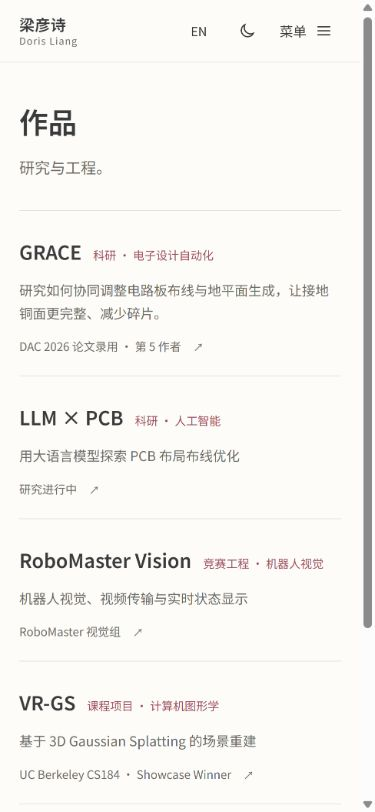
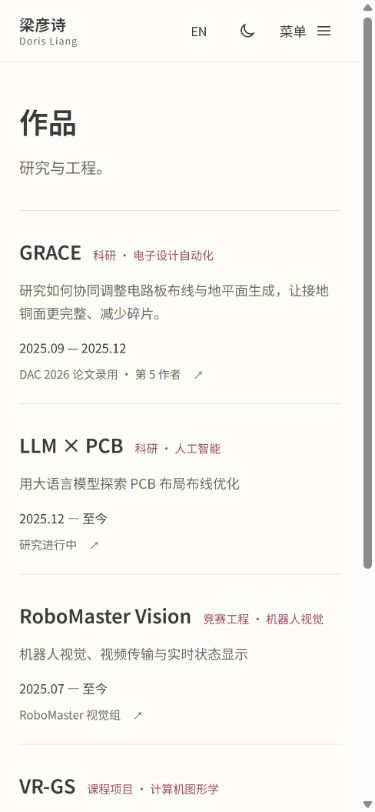
ui(projects)：在列表与详情区分项目时间和论文年份

diff --git a/src/components.js b/src/components.js
@@ -40,7 +40,15 @@ export function documentPage({ key, lang, title, description, body }) {
 <html lang="${lang === "en" ? "en" : "zh-CN"}"><head><meta charset="UTF-8"><meta name="viewport" content="width=device-width, initial-scale=1"><title>${escape(title)} · ${lang === "en" ? "Doris Liang" : "梁彦诗"}</title><meta name="description" content="${escape(description)}"><meta name="theme-color" content="#fdfcf8"><link rel="canonical" href="${canonical}"><link rel="alternate" hreflang="zh-CN" href="${origin}${pathFor(key)}"><link rel="alternate" hreflang="en" href="${origin}${pathFor(key, "en")}"><link rel="alternate" hreflang="x-default" href="${origin}${pathFor(key)}"><meta property="og:title" content="${escape(title)} · Doris Liang"><meta property="og:description" content="${escape(description)}"><meta property="og:url" content="${canonical}"><meta property="og:type" content="${key.startsWith("notes/") ? "article" : "website"}"><meta property="og:locale" content="${lang === "en" ? "en_US" : "zh_CN"}"><link rel="icon" href="/favicon.svg" type="image/svg+xml"><link rel="alternate" type="application/rss+xml" title="Doris Liang · Writing" href="/rss.xml"><script src="/theme-init.js"></script><link rel="preload" href="/assets/fonts/livenest-sans-sc.woff2" as="font" type="font/woff2" crossorigin><link rel="stylesheet" href="/styles.css"></head><body><a class="skip-link" href="#main">${ui[lang].skip}</a>${header(key, lang)}<main id="main" tabindex="-1">${body}</main>${footer(lang)}<script type="module" src="/app.js"></script></body></html>`;
 }
 
-/** Explain project type, problem and recognition at a glance, keeping full technical evidence in details. */
+/** Show supplied project dates separately from publication years; summer does not imply exact months. */
+export function projectPeriod(project, lang) {
+  const { start, end, ongoing, season } = project.period;
+  const beginning = `<time datetime="${start}">${date(start)}</time>`;
+  const ending = end ? ` — <time datetime="${end}">${date(end)}</time>` : ongoing ? ` — ${lang === "en" ? "present" : "至今"}` : "";
+  return `${beginning}${season === "summer" ? (lang === "en" ? " summer" : " 夏") : ending}`;
+}
+
+/** Explain project type, problem, dates and recognition without confusing work and publication dates. */
 export function projectRow(project, lang, heading = "h2") {
   const statuses = {
     grace: lang === "en" ? "Paper accepted at DAC 2026 · Fifth author" : "DAC 2026 论文录用 · 第 5 作者",
@@ -48,7 +56,7 @@ export function projectRow(project, lang, heading = "h2") {
     robomaster: lang === "en" ? "RoboMaster vision team" : "RoboMaster 视觉组",
     vrgs: "UC Berkeley CS184 · Showcase Winner"
   };
-  return `<article class="project-row"><div class="project-row-heading"><${heading}><a href="${pathFor(`projects/${project.id}`, lang)}">${escape(project.title)}</a></${heading}><span class="project-context">${escape(projectContext[project.id][lang])}</span></div><p class="project-subtitle">${escape(projectSummaries[project.id][lang])}</p><p class="project-status"><span>${escape(statuses[project.id])}</span><span class="project-arrow" aria-hidden="true">↗</span></p></article>`;
+  return `<article class="project-row"><div class="project-row-heading"><${heading}><a href="${pathFor(`projects/${project.id}`, lang)}">${escape(project.title)}</a></${heading}><span class="project-context">${escape(projectContext[project.id][lang])}</span></div><p class="project-subtitle">${escape(projectSummaries[project.id][lang])}</p><div class="project-meta"><p class="project-period">${projectPeriod(project, lang)}</p><p class="project-status"><span>${escape(statuses[project.id])}</span><span class="project-arrow" aria-hidden="true">↗</span></p></div></article>`;
 }
 
 /** Connect the award and the story from every article entry point using one award record. */

diff --git a/src/pages.js b/src/pages.js
@@ -4,7 +4,7 @@ import { honors } from "../content/honors.js";
 import { introduction, ui, localizedProjects, localizedJourney, localizedEducation, localizedNote } from "../content/locales.js";
 import { hero } from "./hero.js";
 import { pathFor } from "./routes.js";
-import { escape, date, sectionHeading, projectRow, noteEntry, awardLine } from "./components.js";
+import { escape, date, sectionHeading, projectRow, projectPeriod, noteEntry, awardLine } from "./components.js";
 
 export const pageKeys = ["", "projects", ...projects.map((item) => `projects/${item.id}`), "notes", "notes/unselected-road", "journey", "honors", "about"];
 
@@ -24,7 +24,7 @@ function projectDetail(project, lang) {
   const t = ui[lang];
   const reportLabel = project.id === "grace" ? (lang === "en" ? "DAC 2026 presentation" : "DAC 2026 论文页面") : project.id === "robomaster" ? (lang === "en" ? "GitHub profile" : "GitHub 个人主页") : (lang === "en" ? "Project report" : "项目报告");
   const links = project.link ? `<section class="detail-section"><h2>${t.sources}</h2><div class="text-links"><a href="${escape(project.link)}">${reportLabel} ↗</a>${project.secondaryLink ? `<a href="${escape(project.secondaryLink)}">CS184 Showcase ↗</a>` : ""}</div></section>` : "";
-  return `<div class="reading-shell"><a class="back-link" href="${pathFor("projects", lang)}">← ${t.back} ${t.projects}</a><header class="detail-title"><p class="meta">${escape(project.status)}</p><h1>${escape(project.title)}</h1><p>${escape(project.subtitle)}</p></header>${[[t.background, project.statement], [t.contribution, project.detail], [t.outcome, project.result]].map(([title, text]) => `<section class="detail-section"><h2>${title}</h2><p>${escape(text)}</p></section>`).join("")}<section class="detail-section"><h2>${t.tools}</h2><p class="technology-line">${project.stack.map(escape).join(" · ")}</p></section>${links}</div>`;
+  return `<div class="reading-shell"><a class="back-link" href="${pathFor("projects", lang)}">← ${t.back} ${t.projects}</a><header class="detail-title"><p class="meta">${escape(project.status)}</p><h1>${escape(project.title)}</h1><p>${escape(project.subtitle)}</p><p class="project-period">${lang === "en" ? "Project period" : "项目时间"} · ${projectPeriod(project, lang)}</p></header>${[[t.background, project.statement], [t.contribution, project.detail], [t.outcome, project.result]].map(([title, text]) => `<section class="detail-section"><h2>${title}</h2><p>${escape(text)}</p></section>`).join("")}<section class="detail-section"><h2>${t.tools}</h2><p class="technology-line">${project.stack.map(escape).join(" · ")}</p></section>${links}</div>`;
 }
 
 /** Render original Chinese paragraphs unchanged, with localized navigation and recognition metadata. */

diff --git a/styles.css b/styles.css
@@ -138,13 +138,17 @@ h1, h2, h3 { color: var(--ink); line-height: 1.4; overflow-wrap: anywhere; }
 .project-context { color: var(--accent); font-size: 13px; }
 .project-row h2, .project-row h3 { font-size: 22px; font-weight: 600; margin: 0; letter-spacing: 0; }
 .project-row h2 a, .project-row h3 a { display: inline-flex; align-items: center; text-decoration: none; min-height: 44px; }
-.project-status { grid-column: 2; grid-row: 1 / 3; align-self: center; display: flex; align-items: center; justify-content: flex-end; gap: 12px; color: var(--ink-soft); font-size: 13px; line-height: 1.8; margin: 0; text-align: right; }
+.project-meta { grid-column: 2; grid-row: 1 / 3; align-self: center; text-align: right; }
+.project-period { color: var(--ink); font-size: 13px; font-variant-numeric: tabular-nums; margin: 0 0 6px; }
+.detail-title .project-period { font-size: 14px; margin-top: 20px; }
+.project-status { display: flex; align-items: center; justify-content: flex-end; gap: 12px; color: var(--ink-soft); font-size: 13px; line-height: 1.8; margin: 0; }
 .project-arrow { flex-shrink: 0; transition: transform .2s; }
 .project-row:focus-within .project-arrow, .project-row:hover .project-arrow { transform: translate(2px,-2px); }
 .project-subtitle { grid-column: 1; color: var(--ink-soft); font-size: 15px; line-height: 1.7; margin: 6px 0 0; max-width: 650px; }
 @media (max-width: 800px) {
  .project-row { grid-template-columns: minmax(0, 1fr); }
- .project-status { grid-column: 1; grid-row: auto; justify-content: flex-start; text-align: left; margin-top: 12px; }
+ .project-meta { grid-column: 1; grid-row: auto; text-align: left; margin-top: 14px; }
+ .project-status { justify-content: flex-start; }
 }
 .meta { color: var(--ink-soft); font-size: 12px; line-height: 1.65; letter-spacing: .02em; margin: 0 0 8px; }
 .note-entry { display: grid; grid-template-columns: 100px minmax(0, 1fr); gap: 24px; border-top: 1px solid var(--line); border-bottom: 1px solid var(--line); padding: 28px 0; }

diff --git a/content/site-data.js b/content/site-data.js
@@ -16,6 +16,7 @@ export const site = {
 export const projects = [
   {
     id: "grace",
+    period: { start: "2025-09", end: "2025-12" },
     index: "01",
     eyebrow: "EDA Research · DAC 2026",
     title: "GRACE",
@@ -28,6 +29,7 @@ export const projects = [
   },
   {
     id: "llm-pcb",
+    period: { start: "2025-12", ongoing: true },
     index: "02",
     eyebrow: "LLM Research · Ongoing",
     title: "LLM × PCB",
@@ -39,6 +41,7 @@ export const projects = [
   },
   {
     id: "robomaster",
+    period: { start: "2025-07", ongoing: true },
     index: "03",
     eyebrow: "Robotics · ROS2",
     title: "RoboMaster Vision",
@@ -51,6 +54,7 @@ export const projects = [
   },
   {
     id: "vrgs",
+    period: { start: "2025", season: "summer" },
     index: "04",
     eyebrow: "UC Berkeley CS184 · Showcase Winner",
     title: "VR-GS",

diff --git a/docs/个人站改版.md b/docs/个人站改版.md
@@ -3,7 +3,7 @@
 
 ## 页面与视觉
 
-首页保持既有头像、居中大开场与动画布局，之后依次为自我介绍、GRACE 与 LLM × PCB 两项精选研究、获奖文章入口。项目总览每项展示名称与类型、一句问题说明，右侧展示成果状态，整行均可点击；手机在说明下展示状态，避免挤压长文本。删除索引编号、头部重复英文标签和列表成果段落。详情解释背景、贡献、成果和链接；不把所有信息堆进首页。
+首页保持既有头像、居中大开场与动画布局，之后依次为自我介绍、GRACE 与 LLM × PCB 两项精选研究、获奖文章入口。项目总览每项展示名称与类型、一句问题说明，右侧分别展示项目时间与成果状态，整行均可点击；手机在说明下展示状态，避免挤压长文本。删除索引编号、头部重复英文标签和列表成果段落。详情解释背景、贡献、成果和链接；不把所有信息堆进首页。
 
 主导航：首页、作品、手记、轨迹、关于。荣誉是独立页面，从轨迹、关于、页脚与获奖文章可达。手机以非模态菜单提供全部主导航，Escape 关闭并把焦点归还菜单按钮。
 
@@ -32,3 +32,5 @@ GRACE 标明 DAC 2026 录用和第 5 作者；LLM × PCB 标明进行中。RoboM
 ## 字体来源
 
[1 lines of base64/hex data omitted]
+
+项目日期来自现有简历：GRACE 为 2025.09—2025.12，LLM × PCB 沿用此前确认的 2025.12—至今，RoboMaster 为 2025.07—至今。VR-GS 只标已知的 2025 夏，不将课程学期推断为项目精确起止月份。项目列表、首页精选与详情共用日期数据，论文年份单独展示。两份简历对 LLM 项目结束时间存在差异，已向用户询问；未确认前沿用本轮已批准的进行中状态。

diff --git a/README.md b/README.md
@@ -50,6 +50,6 @@ GitHub Pages 工作流发布 `dist/`，对 `main` 的推送会触发部署。分
 
 ## 设计与验收
 
-内容区最大宽度 1040px，阅读区 700px，使用暖白、柔和玫瑰色和细分隔线。网页界面与大开场统一复用 LivePilot-v2 网页的 LiveNest Sans SC 本地字体，文学原文保留衬线字体。项目列表展示名称、科研／竞赛工程／课程项目类型、一句问题说明和成果状态；GRACE 直接标明论文录用与第 5 作者，完整贡献与指标进入详情页。时间轴桌面展示横向年度导航，手机纵向展开。详细约束和验证记录见 [设计说明](docs/个人站改版.md) 与 [验收记录](docs/改版验收.md)。
+内容区最大宽度 1040px，阅读区 700px，使用暖白、柔和玫瑰色和细分隔线。网页界面与大开场统一复用 LivePilot-v2 网页的 LiveNest Sans SC 本地字体，文学原文保留衬线字体。项目列表展示名称、科研／竞赛工程／课程项目类型、一句问题说明、项目时间和成果状态；GRACE 直接标明论文录用与第 5 作者，完整贡献与指标进入详情页。时间轴桌面展示横向年度导航，手机纵向展开。详细约束和验证记录见 [设计说明](docs/个人站改版.md) 与 [验收记录](docs/改版验收.md)。
 
 既有 `design-qa.md`、`hero-source-audit.md` 及 font/hero 比较脚本是上一版历史记录，不代表新版结构。参考设计归属见 `THIRD_PARTY_NOTICES.md`；没有复制 Innei 的个人内容或图片。

diff --git a/docs/改版验收.md b/docs/改版验收.md
@@ -44,3 +44,7 @@
 页面内容已在构建产物中完整输出，无脚本可读性以静态 HTML 检查确认；旧链接自动迁移、主题与菜单增强仍需要 JavaScript。界面字体已改为同源托管的 LiveNest Sans SC，与 LivePilot-v2 网页源文件哈希一致，176 个页面组合均确认字体已加载；文学原文继续使用 Noto Serif SC 并提供本地字体回退。
 
 本次仅本地构建和分支提交，不推送 main、不触发 GitHub Pages 部署。生产端实际更新需后续发布。
+
+## 项目时间补充验收
+
+项目列表、首页精选与详情页增加独立日期，GRACE 的工作时间与 DAC 2026 录用信息分行显示。构建与 22 页链接检查、lint、JavaScript 语法检查通过。项目列表的中英文 × 四种宽度 × 深浅色 16 个组合重新验证，无横向溢出；GRACE 详情页中英文日期与语言切换已确认，桌面及手机截图已更新。LLM 项目日期存在两份来源差异，暂沿用用户此前确认的进行中状态，待用户选择。
